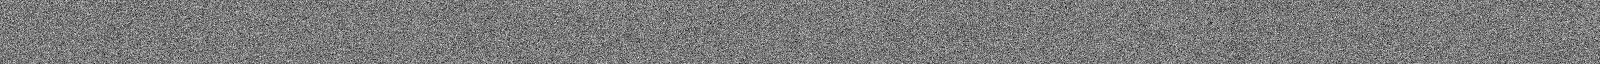
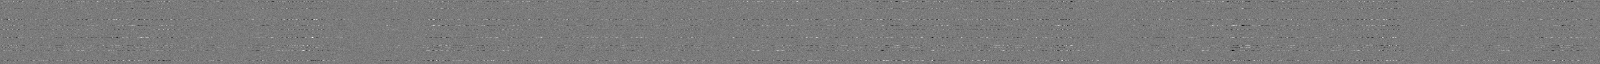
inference V1

diff --git a/matrix.py b/matrix.py
@@ -101,17 +101,31 @@ class matrix:
         return matrix([[self.values[i][j] * b.values[i][j]
                         for j in range(self.cols)] for i in range(self.rows)])
 
-    def conv2D(self, kernel: "matrix", stride:int=1, pos: Mode = "Top") -> "matrix":
-        s=kernel.rows
-        ls = []
-        for i in range(0, self.rows-s+1, stride):
-            t = []
-            for j in range(0, self.cols-s+1, stride):
-                curr_window = self.window(i,j,s,pos)
-                product = curr_window.dotProduct(kernel)
-                t.append(product.sum())
-            ls.append(t)
-        return matrix(ls)
+    # def conv2D(self, kernel: "matrix", stride:int=1, pos: Mode = "Top") -> "matrix":
+    #     s=kernel.rows
+    #     ls = []
+    #     for i in range(0, self.rows-s+1, stride):
+    #         t = []
+    #         for j in range(0, self.cols-s+1, stride):
+    #             curr_window = self.window(i,j,s,pos)
+    #             product = curr_window.dotProduct(kernel)
+    #             t.append(product.sum())
+    #         ls.append(t)
+    #     return matrix(ls)
+    def conv2D(self, kernel, stride=1):
+        s = kernel.rows; kv = kernel.values; sv = self.values
+        out = []
+        for i in range(0, self.rows - s + 1, stride):
+            row = []
+            for j in range(0, self.cols - s + 1, stride):
+                t = 0.0
+                for a in range(s):
+                    ra = sv[i+a]; ka = kv[a]
+                    for b in range(s):
+                        t += ra[j+b] * ka[b]
+                row.append(t)
+            out.append(row)
+        return matrix(out)
 
     def reLu(self) -> "matrix":
         m = [[0.0]*self.cols for i in range(self.rows)]

diff --git a/infer.py b/infer.py
@@ -1,0 +1,45 @@
+# Source - https://stackoverflow.com/a/20199213
+# Posted by ubomb, modified by community. See post 'Timeline' for change history
+# Retrieved 2026-08-16, License - CC BY-SA 4.0
+
+import json
+import random
+
+import numpy as np
+
+from matrix import matrix
+from mnist_loader import load_mnist
+from typedefs import Layer
+from utils import classification, feature_extraction, he_kernel
+
+random.seed(0)
+conv1_filters = [[he_kernel(3, 1)] for _ in range(32)]                      # 32 filters, 1 channel each
+conv2_filters = [[he_kernel(3, 32) for _ in range(32)] for _ in range(64)]
+with open('weights/epoch3.json') as f:
+    d = json.load(f)
+    shapes: tuple[int,int] = d['shapes']
+    weights: list[matrix] = [matrix(i) for i in d["weights"]]
+    biases: list[list[float]] = d['biases']
+    correct = 0
+    imgs,lbls = load_mnist("test", limit=100)
+    for l in range(len(imgs)):
+        img, lbl = imgs[l], lbls[l]
+        input = matrix([[p for p in row] for row in img])
+        layers: list[Layer] = [
+            (conv1_filters,1),
+            (conv2_filters,1),
+        ]
+
+        features, _ = feature_extraction(layers, [input]) # dump=str(n) stores images per layer # FEATURE EXTRACTION
+        probs, probs_caches = classification(features,weights[0],biases[0],weights[1],biases[1]) # CLASSIFICATION
+        curr = - np.inf,0
+        for i in range(len(probs)):
+            if probs[i] > curr[0]:
+                curr = probs[i], i
+
+        prediction = curr[1]
+        if prediction == lbl:
+            correct+=1
+        confidence = curr[0] * 100
+        print(prediction, lbl, confidence)
+    print(correct, 100, str(correct)+"%")

diff --git a/del.py b/del.py
@@ -1,0 +1,9 @@
+from matrix import matrix
+
+
+x = matrix([[i*8+j for j in range(1,9)] for i in range(8)])
+x.print()
+print("maxpool 2")
+x.maxPool(2).print()
+print("maxpool 4")
+x.maxPool(4).print()
